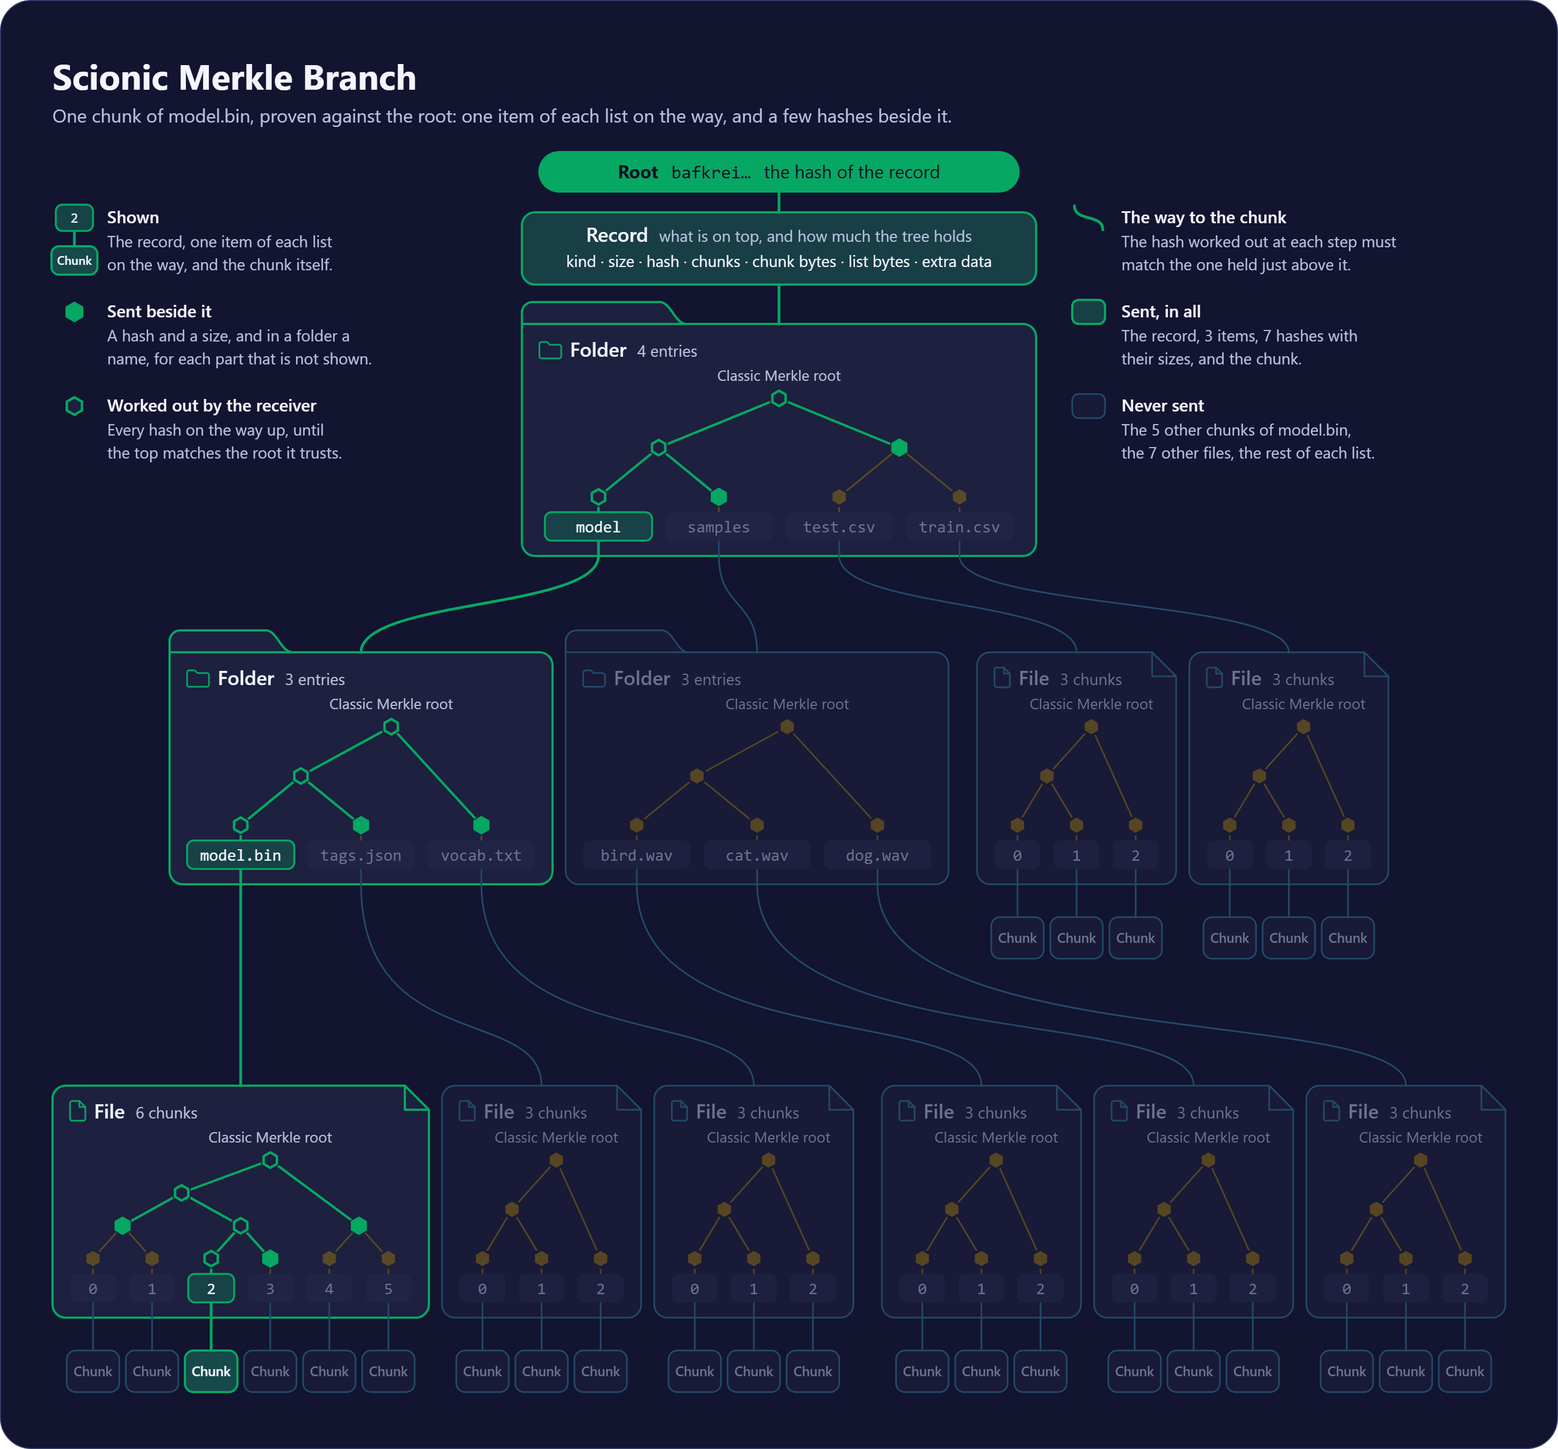
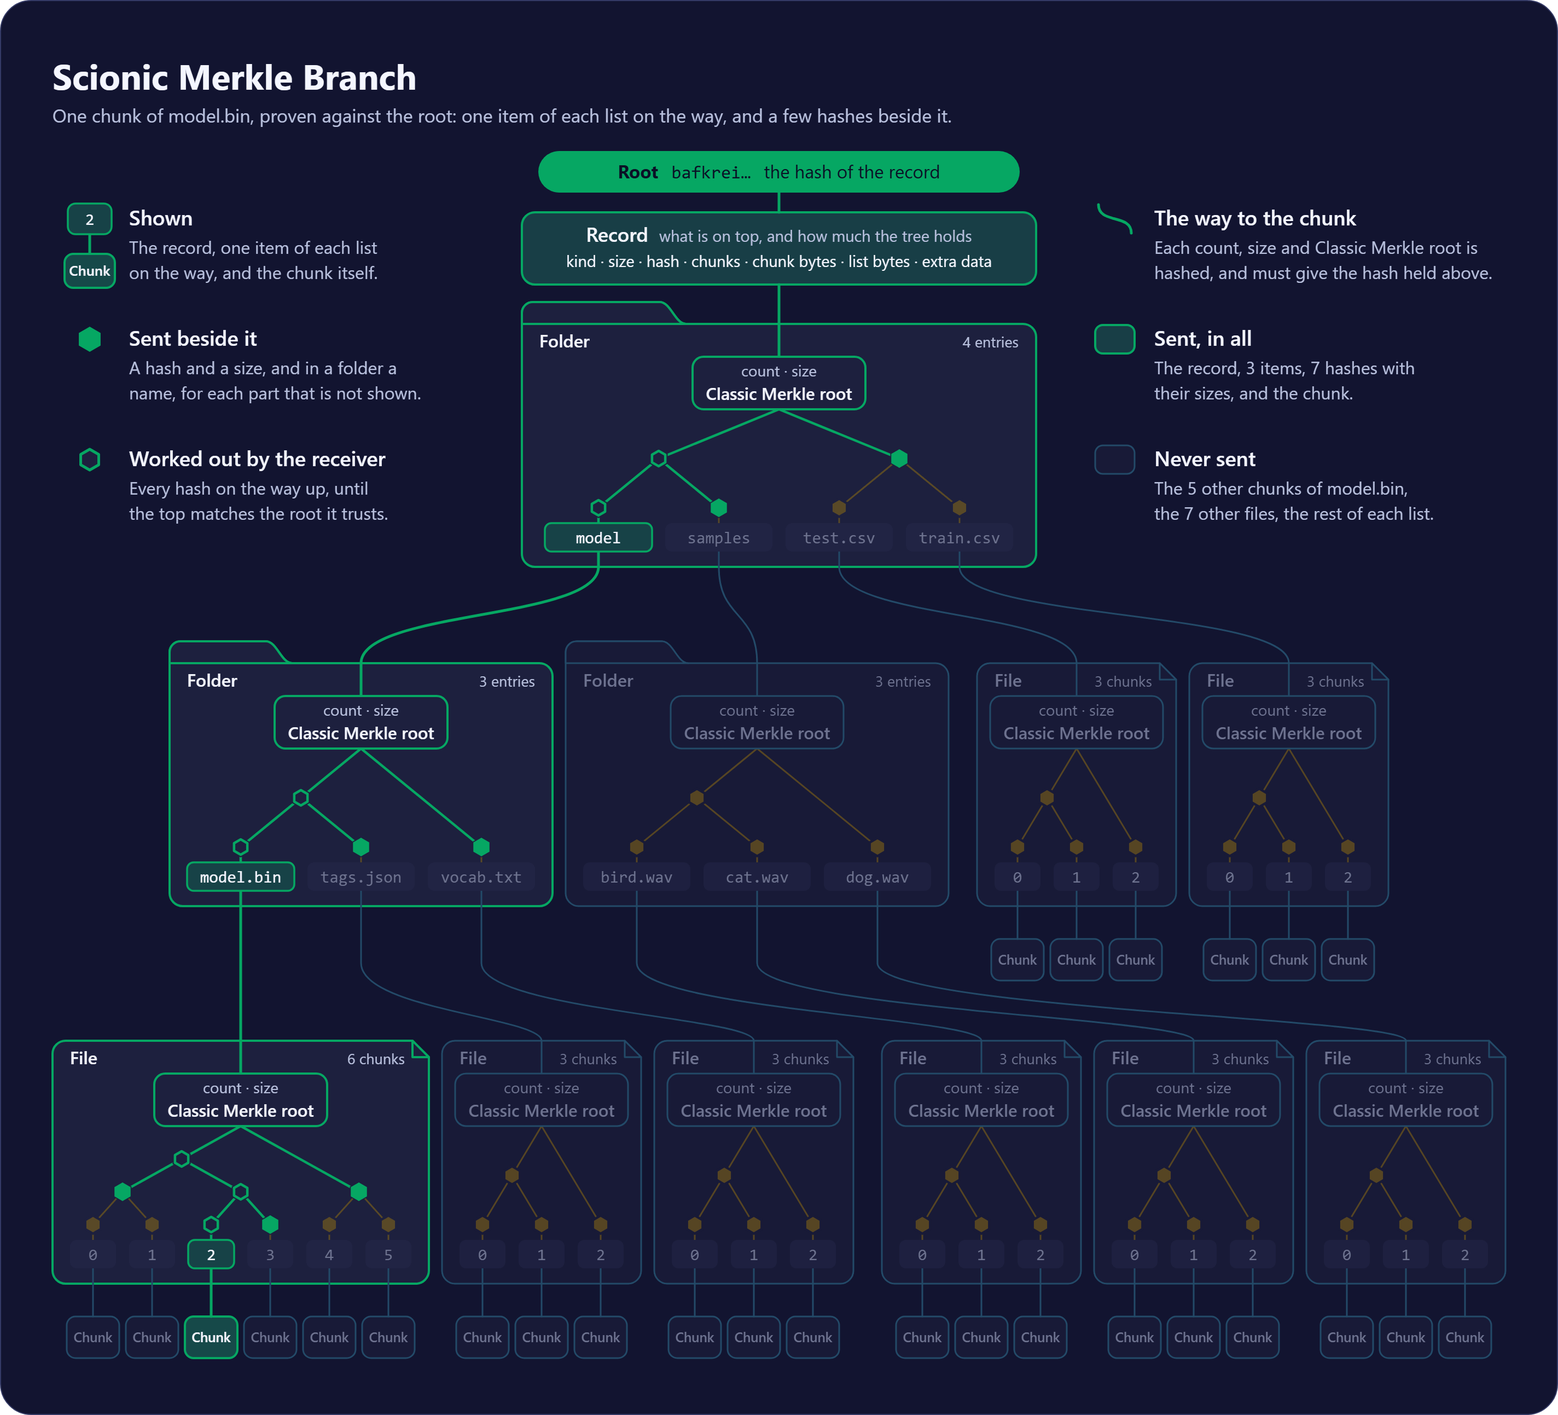
docs: the pictures name LeafSync, and show what a hash covers
The three pictures are drawn again, and the README says in words what
they now show.

- The protocol is named LeafSync, in the table and in the README, where
  both had said Scionic Sync.
- Every folder and file has a box under its name that holds what its
  hash covers: the count and the size of its list, and its Classic
  Merkle root. A link ends at that box and the tree hangs from it. The
  README says the same under "Chunked Parent Leaves".
- In the table, the Scionic Merkle Tree's small picture is both forms in
  one: the boxes of a Merkle DAG, joined through the nodes of a Classic
  Merkle tree. Its last row ends "when chunk counts rise."
- A folder and a file have no small picture beside their word, which is
  smaller, and what the hash covers stands close under it.
- The bottom row stands a third closer under the second: 123 units where
  it stood 184. Each link to it falls straight for a while before it
  goes sideways, which lets the links from the second folder pass under
  the chunks beside it.
- The key of the two tree pictures is larger, and has room at its sides.
- The layout check refuses two links that cross or run within 8 units of
  each other, and a link that comes near a text other than those of the
  two boxes it joins.

diff --git a/README.md b/README.md
@@ -4,7 +4,7 @@
 
 ## Combining Merkle Trees and Merkle DAGs
 
-We've designed a [new type of Merkle DAG/Merkle Tree hybrid](https://www.hornet.storage/) known as the Scionic Merkle Tree. Scionic Merkle Trees contain small branches like Classic Merkle Trees, the folder storage support of Merkle DAGs, and numbered file chunks, so anyone can sync a file by its hash and request the range of chunk numbers they are missing. Scionic Sync is the name of the simple protocol used to request a range of a file's chunk numbers in order to retrieve a batch of missing file chunks. Identical chunks, files and folders have identical hashes wherever they appear, so each one is stored once and sent once.
+We've designed a [new type of Merkle DAG/Merkle Tree hybrid](https://www.hornet.storage/) known as the Scionic Merkle Tree. Scionic Merkle Trees contain small branches like Classic Merkle Trees, the folder storage support of Merkle DAGs, and numbered file chunks, so anyone can sync a file by its hash and request the range of chunk numbers they are missing. LeafSync is the name of the simple protocol used to request a range of a file's chunk numbers in order to retrieve a batch of missing file chunks. Identical chunks, files and folders have identical hashes wherever they appear, so each one is stored once and sent once.
 
 ![Comparison of Many Merklized Forms. Numbered chunks and Negentropy symbiosis: Scionic Merkle Trees only. Folder storage support: IPFS Merkle DAGs and Scionic Merkle Trees. Chunked parent leaves: Scionic Merkle Trees and Classic Merkle Trees.](docs/pictures/merklized-forms.png)
 
@@ -42,7 +42,7 @@ flowchart TD
 
 *Two versions of a model in one tree. The second version changed one chunk, so that chunk is the only new data: chunks A and C are stored once and shared. A name belongs to its folder and a chunk number belongs to its file, so a file is the same file wherever it sits and whatever it is called.*
 
-Scionic Merkle Trees maintain the advantages of IPFS Merkle DAGs with the slim Merkle Branches of Classic Merkle Trees, while providing Scionic Sync as a new feature that complements any set reconciliation system (IBLTs, negentropy, et al.). In plant grafting, the "Scion" is the upper part of the plant, chosen for its desirable fruits or flowers; it's grafted onto another plant's base to grow together. In a similar vein, the Scionic Merkle Tree was born from grafting together Merkle Trees and Merkle DAGs. This process emphasizes why we use the term "Scion" for the Scionic Merkle Trees: it symbolizes the digital grafting of these two similar data structures, combining their strengths into one piece of software.
+Scionic Merkle Trees maintain the advantages of IPFS Merkle DAGs with the slim Merkle Branches of Classic Merkle Trees, while providing LeafSync as a new feature that complements any set reconciliation system (IBLTs, negentropy, et al.). In plant grafting, the "Scion" is the upper part of the plant, chosen for its desirable fruits or flowers; it's grafted onto another plant's base to grow together. In a similar vein, the Scionic Merkle Tree was born from grafting together Merkle Trees and Merkle DAGs. This process emphasizes why we use the term "Scion" for the Scionic Merkle Trees: it symbolizes the digital grafting of these two similar data structures, combining their strengths into one piece of software.
 
 ## Contents
 
@@ -108,6 +108,8 @@ Within each parent leaf, the list of children is organized as a Classic Merkle T
 - **A folder's Classic Merkle Tree** covers its entries, in the order of their names.
 - **A file's Classic Merkle Tree** covers its chunks, in the order they have in the file. A chunk's number is its place in that tree, so a chunk cannot be shown under a number it does not have.
 
+The top of each tree is its Classic Merkle root. The hash of a folder or of a file covers three things: how many items its list has, its size in bytes, and its Classic Merkle root. That hash is what a parent holds for its child, and what the tree's record holds for the folder or file on top. In the pictures below, every folder and file shows those three in a box, and every link by hash ends at that box.
+
 A large file has far more chunks than most folders have entries: about 500,000 for a file of a terabyte. A file of 512 KiB or less is a single chunk, and its tree is that one leaf.
 
 ### File Chunk Downloading with Chunked Parent Leaves
@@ -120,11 +122,11 @@ A folder's entries are sorted by name, and every fork of the folder's Merkle tre
 
 ### Scionic Merkle Tree
 
-![Scionic Merkle Tree: the root is the hash of the record, which names the folder on top. Each folder lists its entries by name and each file lists its chunks by number, and a Classic Merkle tree inside each one covers its list.](docs/pictures/scionic-merkle-tree.png)
+![Scionic Merkle Tree: the root is the hash of the record, which names the folder on top. Each folder lists its entries by name and each file lists its chunks by number, and a Classic Merkle tree inside each one covers its list. Every link ends at a box that holds what the hash covers: the count, the size and the Classic Merkle root.](docs/pictures/scionic-merkle-tree.png)
 
 ### Scionic Merkle Branch
 
-![Scionic Merkle Branch: one chunk of a file, proven against the root. Each folder and file on the way shows one item of its list with a few hashes beside it, and the rest of the tree is never sent.](docs/pictures/scionic-merkle-branch.png)
+![Scionic Merkle Branch: one chunk of a file, proven against the root. Each folder and file on the way shows one item of its list with a few hashes beside it. At each step the count, the size and the Classic Merkle root are hashed, and must give the hash held just above. The rest of the tree is never sent.](docs/pictures/scionic-merkle-branch.png)
 
 ## Scionic Merkle Branch Statistics
 
@@ -156,7 +158,7 @@ Scionic Merkle Trees incorporate Classic Merkle Trees within their structure, so
 
 ## Syncing by File Hash and Chunk Number
 
-A Scionic Merkle Tree says what is in it. The root names what is on top, a folder lists its entries, and a file lists its chunks. **Scionic Sync**, which earlier versions called LeafSync, is the protocol that fetches from it. A receiver asks for:
+A Scionic Merkle Tree says what is in it. The root names what is on top, a folder lists its entries, and a file lists its chunks. **LeafSync** is the protocol that fetches from it. A receiver asks for:
 
 - **a file by its hash, and its chunks by their numbers**: chunks 100 to 200 of this file;
 - **a range of a file's bytes**, for which only the chunks that hold those bytes are sent;
@@ -166,12 +168,12 @@ A chunk's number is its position in its file's list, and the file's hash covers 
 
 ### Negentropy Symbiosis
 
-Scionic Sync complements any set reconciliation system, such as Negentropy. Each does the part it is suited to:
+LeafSync complements any set reconciliation system, such as Negentropy. Each does the part it is suited to:
 
 - **Set reconciliation syncs the Merkle roots, and the file hashes that link to each root.** Two sides work out which roots, and which files under a root, one of them holds and the other is missing. These are small sets: one hash for a tree and one for a file.
-- **Scionic Sync then syncs the chunks of each file.** A file's chunks are numbered, so a receiver asks for the ranges of numbers it is missing. Chunk hashes are never reconciled as a set. They are by far the largest set, about 500,000 for a terabyte of files, and set reconciliation costs memory and work for every hash in the set.
+- **LeafSync then syncs the chunks of each file.** A file's chunks are numbered, so a receiver asks for the ranges of numbers it is missing. Chunk hashes are never reconciled as a set. They are by far the largest set, about 500,000 for a terabyte of files, and set reconciliation costs memory and work for every hash in the set.
 
-This library provides Scionic Sync. It holds no set reconciliation of its own, and works beside whichever one an application runs. A receiver that has nothing but a root needs none at all: it walks down from the root, skips everything it already holds by its hash, and asks for the rest.
+This library provides LeafSync. It holds no set reconciliation of its own, and works beside whichever one an application runs. A receiver that has nothing but a root needs none at all: it walks down from the root, skips everything it already holds by its hash, and asks for the rest.
 
 A phone can read one file out of a tree of terabytes and hold almost nothing. Which chunks of a file a peer holds is one bit per chunk: about 60 KB for a file of a terabyte. Different ranges of one file can be requested from different peers at the same time.
 
@@ -182,7 +184,7 @@ A phone can read one file out of a tree of terabytes and hold almost nothing. Wh
 Version 2.5.6 is a new tree format, built for deduplication and for trees of a terabyte and more. It does not read trees made by 2.4.x, and the same folder has a different root than it had there.
 
 - **Deduplication comes first.** A chunk's hash covers its bytes alone and a file's hash covers its chunks alone. Names and chunk numbers moved into the parent. Earlier versions hashed a chunk's number into the chunk and a file's name into the file, so the same bytes had different hashes in different places.
-- **Scionic Sync numbers a file's chunks, not a tree's leaves.** Earlier versions called it LeafSync and numbered every leaf of a tree. It now asks for a file by its hash and for its chunks by their numbers within that file, which the file's hash covers. Set reconciliation is left with the small sets: the Merkle roots, and the file hashes that link to them.
+- **LeafSync numbers a file's chunks, not a tree's leaves.** Earlier versions numbered every leaf of a tree. It now asks for a file by its hash and for its chunks by their numbers within that file, which the file's hash covers. Set reconciliation is left with the small sets: the Merkle roots, and the file hashes that link to them.
 - **A folder has one place for each name,** so one branch proves that a name is in a folder, or that it is not.
 - **Hardened against forged data.** A made-up leaf, a file that comes back short, a chunk that belongs to another file, and a store that is tricked into handing back other bytes are each refused, and each has a test.
 - **Bounded memory and work.** Every request says how long its answer may be, a tree's record says how much the tree holds, and writing a tree out counts what it would create before it creates anything.

diff --git a/docs/pictures/README.md b/docs/pictures/README.md
@@ -22,7 +22,7 @@ python docs/pictures/shrink.py <folder>/scionic-merkle-branch.png docs/pictures/
 `<folder>` is any folder outside the repository. The first command writes each picture into it three times: as an `.svg`, as an `.html` that checks its own layout, and as a `.png` at two pixels to a unit.
 
 - **[`pictures.mjs`](pictures.mjs)** needs Node 20 or newer, and Chrome or Edge for the `.png` files. Without the path of a browser it writes the `.svg` and `.html` files only.
-- **The browser checks a picture before it takes it.** Every text is inside its box. No text lies on another text, nor on a box that is not its own. No link crosses a box or a text. Every box is on the canvas. If anything is wrong, the program says what, takes no picture, and ends with an error.
+- **The browser checks a picture before it takes it.** Every text is inside its box. No text lies on another text, nor on a box that is not its own. No link crosses a box or a text, and no two links cross or run within 8 units of each other. Every box is on the canvas. If anything is wrong, the program says what, takes no picture, and ends with an error.
 - **The pictures are drawn with Segoe UI and Consolas,** so they are drawn on Windows. On a machine without those fonts the check says so and takes no picture, because the same drawing in another font is a different layout.
 - **[`shrink.py`](shrink.py)** needs Python 3 and Pillow. It gives a picture a palette of 256 colours, which makes the file about a third of the size. Every flat colour stays exactly as it was, and the program prints how far the furthest shade along an edge moved. For these pictures that is 8 of 255 at most, and it refuses a picture in which a colour would move further.
 
@@ -30,18 +30,23 @@ python docs/pictures/shrink.py <folder>/scionic-merkle-branch.png docs/pictures/
 
 Everything a picture says is at the top of `pictures.mjs` or in the function that draws it:
 
-- **`SYNC`** is the name of the protocol that asks for a file's chunks by their numbers.
+- **`SYNC`** is the name of the protocol that asks for a file's chunks by their numbers: LeafSync.
 - **`TOP`, `LEFT` and `RIGHT`** are the names in the example tree: the folder on top holds two folders and two files, and each of those two folders holds three files. The names must be in the order of their bytes, as a folder's entries are, and the program refuses them otherwise. The first two names of `TOP` are the two folders.
 - **The two folders stand side by side, with the files to the right of them.** The pictures draw a folder's entries in the order of their names. So the files of the folder on top have names that sort after both folders, as `test.csv` and `train.csv` sort after `model` and `samples`.
 - **`CHUNKS`** is how many chunks each file has. A file holds what a folder holds: the Classic Merkle tree over its list, with its chunks' numbers under the tree's leaves, and its chunks under those.
-- **A folder and a file are told apart by their outlines.** A folder's box has a tab over its top left corner, as a folder has. A file's box has its top right corner folded down, as a sheet has. Each has a small picture of itself beside its word. In the tree picture the tab and the folded corner are tinted. In the branch picture they are outlines only, because there a fill says what is shown or sent.
+- **A folder and a file are told apart by their outlines.** A folder's box has a tab over its top left corner, as a folder has. A file's box has its top right corner folded down, as a sheet has. The box is itself the picture of a folder or of a file, so its word is small and has no picture beside it. In the tree picture the tab and the folded corner are tinted. In the branch picture they are outlines only, because there a fill says what is shown or sent.
+- **What a hash covers stands in a box of its own,** close under the name of every folder and file: the count and the size of its list, and its Classic Merkle root. Those three are what the hash of a folder or of a file covers, as [`spec/FORMAT.md`](../../spec/FORMAT.md) has it under "A file" and "A folder". A link ends at that box and the tree hangs from it, so a line always ends at what its hash is the hash of. The Classic Merkle root alone is not what the entry above holds.
+  - In the tree picture the box looks as a chunk does, because both are what a link by hash ends at.
+  - In the branch picture it is a ring on the way to the chunk, because the receiver works the three out, and it is faded everywhere else.
 - **No list in these pictures has fewer than three items.** The tree over two items is a single fork, which does not look like a tree. So the program refuses a folder with fewer than three entries, and a file with fewer than three chunks. The format itself has smaller ones: a file of 512 KiB or less is a single chunk, and its tree is that one leaf.
 - **Every folder and file box has one height,** that of the deepest tree, so that the boxes of a row line up at the top and at the bottom. A folder's tab stands over that height. A tree of fewer levels is drawn as tall as the deepest: every Classic Merkle root stands at one height in its box, and so does every leaf.
 - **Each row stands in the middle of the picture.** Two boxes that belong together are 12 units apart, and two sets of them are 26 apart: the folders and the files of the second row, and the two folders' files in the bottom row.
+- **The bottom row stands as close under the second as its links allow:** 123 units, in `apart`. The links from the second folder pass under the chunks that hang from the two files beside it, so each link falls straight for a while and then goes sideways. At 123 units a link has 14 units to the chunks over it and 13 to the next link. Closer rows bunch the links, and the check refuses two that come within 8 units of each other.
 - **The two tree pictures are 1,424 units wide,** wider than the table, so that the bottom row holds six files with their chunks at a size that can be read, and with room between one chunk and the next. If the files are given more chunks than fit, the program refuses them, and says how much room they take and how much there is.
 - **`PROVEN`** is the chunk that the branch picture proves, in the first file of the first folder. What is shown, what is sent beside it and what the receiver works out follow from it by the rule in [`spec/FORMAT.md`](../../spec/FORMAT.md), under "Showing a part".
+- **The key of a tree picture stands on both sides of the root,** and fills the room beside the record and the folder on top. An entry is a title with two lines under it, and a small picture at their left. `keys` says where the key stands and how far its entries are apart. A line that is too long for its side is refused by the check, so it is put in fewer words.
 - **The rows of the table and its three forms** are in `table()`.
-- **The name of a form is the largest thing in its column.** The word that tells it from the other two is written large, over the rest of its name: `IPFS` over `Merkle DAGs`. Each form has a small picture of itself in the colours of the two tree pictures: boxes that link to boxes for a Merkle DAG, a Classic Merkle tree, and for a Scionic Merkle Tree a box with a Classic Merkle tree inside it.
+- **The name of a form is the largest thing in its column.** The word that tells it from the other two is written large, over the rest of its name: `IPFS` over `Merkle DAGs`. Each form has a small picture of itself in the colours of the two tree pictures: boxes that link to boxes for a Merkle DAG, and a Classic Merkle tree. The Scionic Merkle Tree's is both in one: the boxes of the first, joined through the nodes of the second.
 - **The table fills its picture.** Its title stands in the corner that a table leaves empty, beside the names of the forms. A mark is a badge that is no larger than what it says, and the picture is as wide as its columns and no wider, so that its text is large at the width of a page.
 
 ## The Colours
@@ -49,7 +54,7 @@ Everything a picture says is at the top of `pictures.mjs` or in the function tha
 | Colour | Value | What it is for |
 | --- | --- | --- |
 | Canvas, box, raised | `#121430`, `#1D203E`, `#25284B` | the surfaces, which are those of the HORNET Storage relay panel |
-| Sky | `#3ea1c3` | folders, files, chunks and the links between them |
+| Sky | `#3ea1c3` | folders, files, chunks, what a hash covers, and the links between them |
 | Amber | `#ba8c02` | the Classic Merkle tree inside a folder or a file |
 | Green | `#06a763` | yes in the table, and the branch |
 | Red | `#f7502a` | no in the table |
